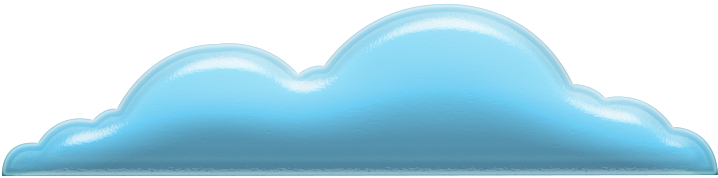
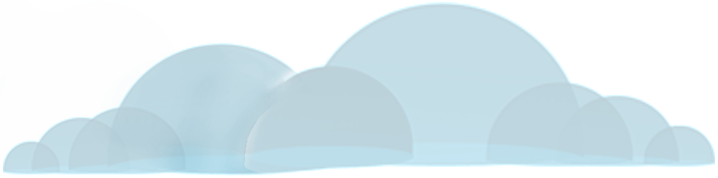
Added Random Clouds
changed background, added clouds animation, fixed water animation.

diff --git a/penguin-quest/Assets/Scripts/CloudGenerator.cs b/penguin-quest/Assets/Scripts/CloudGenerator.cs
@@ -1,0 +1,28 @@
+using UnityEngine;
+using System.Collections;
+using System.Collections.Generic;
+
+public class CloudGenerator : MonoBehaviour {
+	
+	public List<GameObject> clouds = new List<GameObject>(); 
+	GameObject selectedCloud;
+	int randomIndex;
+	Vector3 startPos = new Vector3(10.0f,4.0f,0.0f);
+	Vector3 endPos = new Vector3(-15.0f,4.0f,0.0f);
+	// Use this for initialization
+	
+	void destroyCloud(Object obj){
+		Destroy((GameObject)obj);
+	}
+	void createClouds(){
+		randomIndex = Random.Range(0,clouds.Count);
+		selectedCloud = Instantiate(clouds[randomIndex],startPos,Quaternion.identity) as GameObject;
+		iTween.MoveTo(selectedCloud,iTween.Hash("position",endPos,"time",30.0f,"onComplete","destroyCloud",
+		                                        "oncompletetarget", gameObject,"oncompleteparams",selectedCloud,"easetype",iTween.EaseType.linear));
+		Invoke("createClouds",20.0f);
+	}
+	void Start (){
+		createClouds();
+		
+	}
+}
